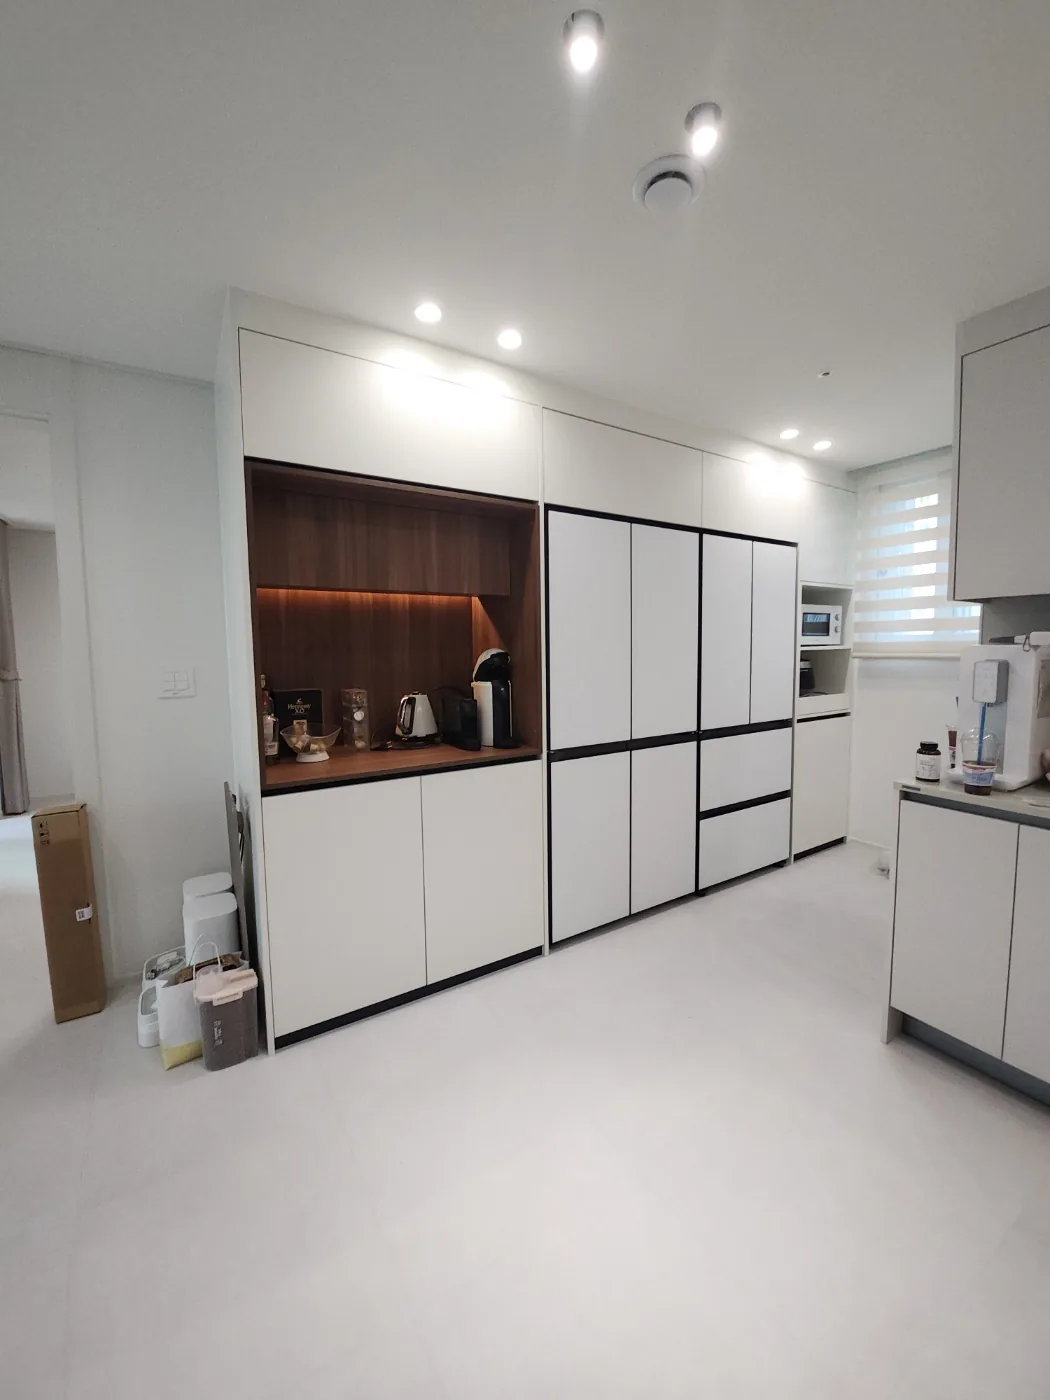
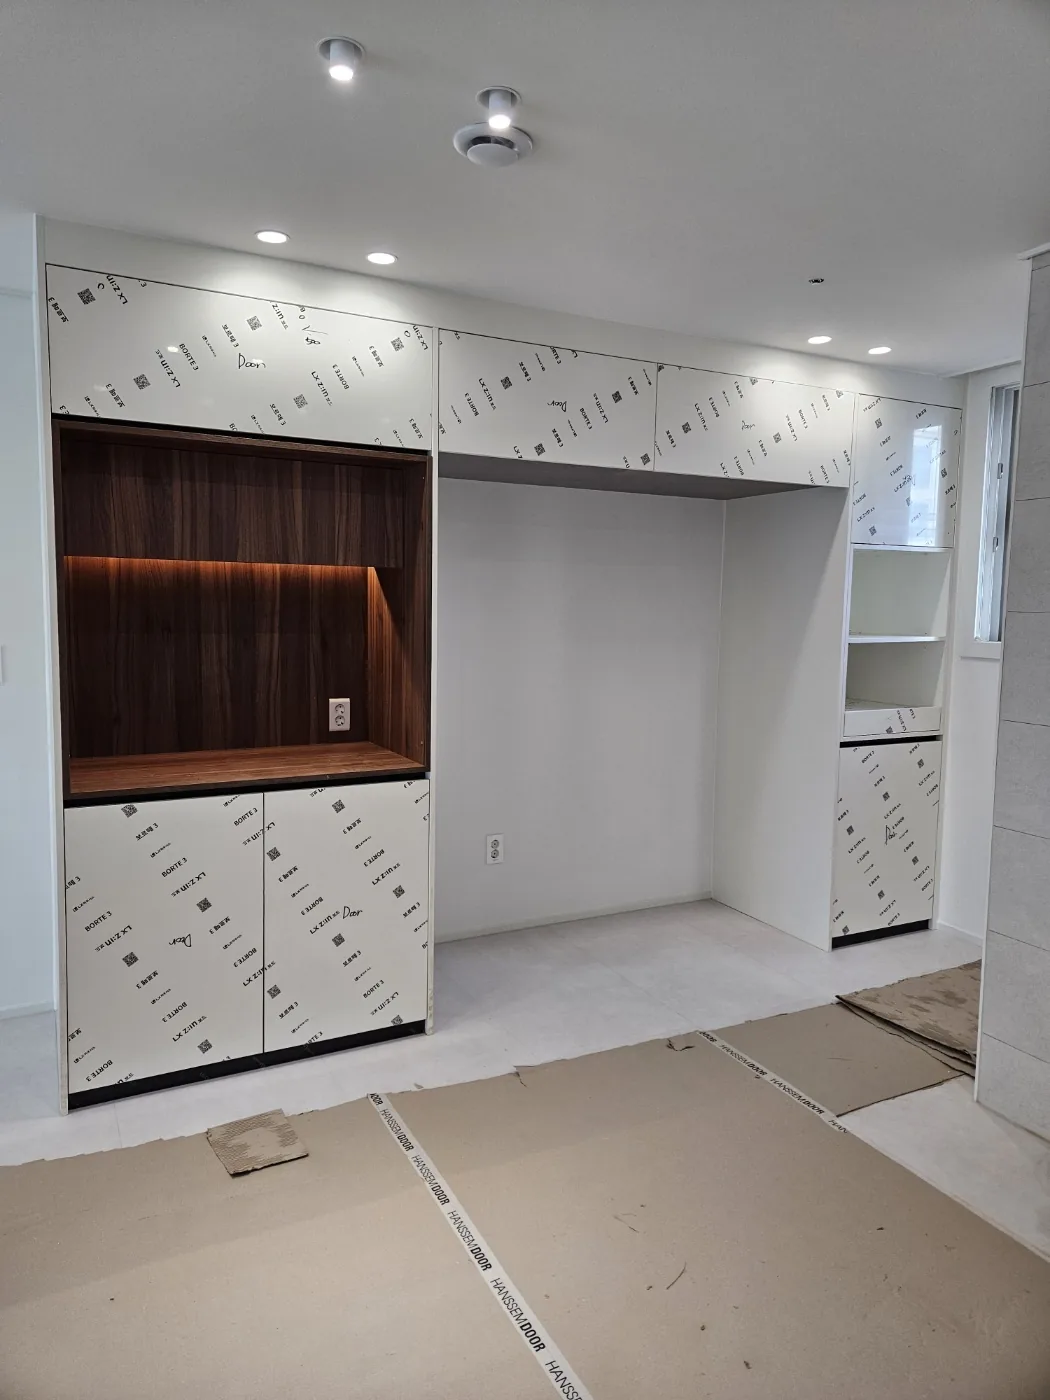
uv코팅 갤러리 추가 + 올인원 완성사진 처리 + 서비스 카드 썸네일 사례사진화
- 대리석케어 UV 갤러리에 작업사진 12장 추가(uv_13~24, 총 24장)
- '올인원 냉장고장·홈바장·키큰장' 케이스: 두 사진 모두 시공 후 → 전/후 비교 해제, 완성 사진 2장으로(덕영 확인)
- 서비스.html 주방·장 제작/가구 리폼 카드 썸네일을 사례 작업사진으로 교체(이모지 자리표시 제거), 각 카드가 해당 유형 콘텐츠로 연결

diff --git a/서비스.html b/서비스.html
@@ -293,7 +293,7 @@ footer{border-top:1px solid var(--hairline);padding:var(--sp-xxl) 0 0}
 
     <div class="item-grid">
       <div class="item-card">
-        <div class="item-photo ph4"><a class="thumb-link" href="시공사례.html"><img src="img/블로그/svc_island.webp" alt="주방 전체 시공 사진 — 수원 베스트타운 주방 올철거 리모델링 하츠 인덕션·아일랜드" loading="lazy"></a><span class="badge">제작·시공</span></div>
+        <div class="item-photo"><a class="thumb-link" href="사례상세.html?id=jubang-all"><img src="img/사례/jubang-all/thumb.webp" alt="주방 전체 시공" loading="lazy"></a><span class="badge">제작·시공</span></div>
         <div class="item-body">
           <h3>싱크대 제작·교체 (주방 전체)</h3>
           <p>철거부터 상하부장·상판·후드·설치까지, 주방 전체를 새로 만듭니다.</p>
@@ -303,7 +303,7 @@ footer{border-top:1px solid var(--hairline);padding:var(--sp-xxl) 0 0}
         </div>
       </div>
       <div class="item-card">
-        <div class="item-photo"><a class="thumb-link" href="장제작상세.html?type=fridge"><img src="img/블로그/svc_fridge.webp" alt="냉장고장 시공 사진 — 부천 옥길동 제이드카운티 냉장고장 제작" loading="lazy"></a><span class="badge">인기</span></div>
+        <div class="item-photo"><a class="thumb-link" href="장제작상세.html?type=fridge"><img src="img/사례/naeng-reform/thumb.webp" alt="냉장고장 제작·리폼" loading="lazy"></a><span class="badge">인기</span></div>
         <div class="item-body">
           <h3>냉장고장 <span style="font-size:.75em;color:var(--muted-soft);font-weight:600">신규 제작</span></h3>
           <p>냉장고·김치냉장고 자리를 딱 맞게 감싸는 맞춤장. 상부 수납장 포함 제작.</p>
@@ -313,7 +313,7 @@ footer{border-top:1px solid var(--hairline);padding:var(--sp-xxl) 0 0}
         </div>
       </div>
       <div class="item-card">
-        <div class="item-photo ph2"><a class="thumb-link" href="장제작상세.html?type=builtin"><img src="img/블로그/svc_utility.webp" alt="붙박이장 시공 사진 — 수원 베란다 창고장, 성중흥S클래스 창고장" loading="lazy"></a></div>
+        <div class="item-photo"><a class="thumb-link" href="장제작상세.html?type=builtin"><img src="img/사례/gongteul-pretty/thumb.webp" alt="붙박이장·공틀장" loading="lazy"></a></div>
         <div class="item-body">
           <h3>붙박이장</h3>
           <p>현관장·베란다장·방 붙박이장까지, 벽면에 딱 맞게 제작·설치.</p>
@@ -323,7 +323,7 @@ footer{border-top:1px solid var(--hairline);padding:var(--sp-xxl) 0 0}
         </div>
       </div>
       <div class="item-card">
-        <div class="item-photo ph3" style="display:flex;align-items:center;justify-content:center;font-size:46px"><a class="thumb-link" href="장제작상세.html?type=entrance" style="text-decoration:none">👟</a></div>
+        <div class="item-photo"><a class="thumb-link" href="장제작상세.html?type=entrance"><img src="img/사례/entrance-mirror/thumb.webp" alt="현관장" loading="lazy"></a></div>
         <div class="item-body">
           <h3>현관장</h3>
           <p>신발·우산·택배까지 현관을 깔끔하게. 벤치·거울·키홀더 결합도 가능.</p>
@@ -333,7 +333,7 @@ footer{border-top:1px solid var(--hairline);padding:var(--sp-xxl) 0 0}
         </div>
       </div>
       <div class="item-card">
-        <div class="item-photo ph4" style="display:flex;align-items:center;justify-content:center;font-size:46px"><a class="thumb-link" href="장제작상세.html?type=living" style="text-decoration:none">📺</a></div>
+        <div class="item-photo"><a class="thumb-link" href="장제작상세.html?type=living"><img src="img/사례/artwall/thumb.webp" alt="거실장·아트월" loading="lazy"></a></div>
         <div class="item-body">
           <h3>거실장</h3>
           <p>TV·거실 벽면을 수납과 디자인으로 통합. 아트월·오픈선반·도어 혼합 구성.</p>
@@ -343,7 +343,7 @@ footer{border-top:1px solid var(--hairline);padding:var(--sp-xxl) 0 0}
         </div>
       </div>
       <div class="item-card">
-        <div class="item-photo ph2" style="display:flex;align-items:center;justify-content:center;font-size:46px"><a class="thumb-link" href="장제작상세.html?type=homebar" style="text-decoration:none">🍸</a></div>
+        <div class="item-photo"><a class="thumb-link" href="장제작상세.html?type=homebar"><img src="img/사례/homebar-cafe/thumb.webp" alt="홈바장·카페장" loading="lazy"></a></div>
         <div class="item-body">
           <h3>홈바장</h3>
           <p>주방·거실 사이 홈바·수납 카운터. 상판·수납·콘센트까지 맞춤 제작.</p>
@@ -353,7 +353,7 @@ footer{border-top:1px solid var(--hairline);padding:var(--sp-xxl) 0 0}
         </div>
       </div>
       <div class="item-card">
-        <div class="item-photo ph3" style="display:flex;align-items:center;justify-content:center;font-size:46px"><a class="thumb-link" href="장제작상세.html?type=tall" style="text-decoration:none">🗄</a></div>
+        <div class="item-photo"><a class="thumb-link" href="장제작상세.html?type=tall"><img src="img/사례/tall-naeng-oven-study/thumb.webp" alt="키큰장" loading="lazy"></a></div>
         <div class="item-body">
           <h3>키큰장</h3>
           <p>천장까지 꽉 채우는 톨장. 오븐·전자레인지 매립 구성 가능.</p>
@@ -363,7 +363,7 @@ footer{border-top:1px solid var(--hairline);padding:var(--sp-xxl) 0 0}
         </div>
       </div>
       <div class="item-card">
-        <div class="item-photo"><a class="thumb-link" href="장제작상세.html?type=system"><img src="img/블로그/svc_island.webp" alt="시스템장 시공 사진" loading="lazy"></a></div>
+        <div class="item-photo"><a class="thumb-link" href="장제작상세.html?type=system"><img src="img/사례/mang-homebar-robot/thumb.webp" alt="맞춤가구·시스템장" loading="lazy"></a></div>
         <div class="item-body">
           <h3>맞춤가구·시스템장</h3>
           <p>주방·거실 벽면을 통일감 있게 구성하는 시스템 수납장과 자투리 수납장.</p>
@@ -433,7 +433,7 @@ footer{border-top:1px solid var(--hairline);padding:var(--sp-xxl) 0 0}
 
     <div class="item-grid">
       <div class="item-card">
-        <div class="item-photo ph2"><a class="thumb-link" href="시공사례.html"><img src="img/블로그/svc_door.webp" alt="상하부장 리폼 시공 사진 — 도어·필름 교체" loading="lazy"></a></div>
+        <div class="item-photo"><a class="thumb-link" href="사례상세.html?id=kitchen-door-reform"><img src="img/사례/kitchen-door-reform/thumb.webp" alt="상하부장·도어 리폼" loading="lazy"></a></div>
         <div class="item-body">
           <h3>상하부장 리폼</h3>
           <p>장은 그대로, 필름·도어만 새것으로. 미터당 단가로 계산돼요.</p>
@@ -443,7 +443,7 @@ footer{border-top:1px solid var(--hairline);padding:var(--sp-xxl) 0 0}
         </div>
       </div>
       <div class="item-card">
-        <div class="item-photo ph3" style="display:flex;align-items:center;justify-content:center;font-size:46px"><a class="thumb-link" href="시공사례.html" style="text-decoration:none">🚪</a></div>
+        <div class="item-photo"><a class="thumb-link" href="사례상세.html?id=kitchen-door-reform"><img src="img/사례/kitchen-door-reform/thumb.webp" alt="도어 교체" loading="lazy"></a></div>
         <div class="item-body">
           <h3>도어 교체</h3>
           <p>문짝만 새것으로. 색상·소재 샘플 보고 선택.</p>
@@ -463,7 +463,7 @@ footer{border-top:1px solid var(--hairline);padding:var(--sp-xxl) 0 0}
         </div>
       </div>
       <div class="item-card">
-        <a class="item-photo ph2" href="냉장고장리폼.html" style="display:flex;align-items:center;justify-content:center;font-size:46px;text-decoration:none">🧊</a>
+        <a class="item-photo" href="냉장고장리폼.html"><img src="img/사례/naeng-reform/thumb.webp" alt="냉장고장 리폼" loading="lazy"></a>
         <div class="item-body">
           <h3>냉장고장 리폼</h3>
           <p>기존 냉장고장 구조를 살려 문짝·필름·마감만 새것으로. 신규 제작보다 합리적인 비용.</p>
@@ -473,7 +473,7 @@ footer{border-top:1px solid var(--hairline);padding:var(--sp-xxl) 0 0}
         </div>
       </div>
       <div class="item-card">
-        <a class="item-photo ph3" href="식기세척기장리폼.html" style="display:flex;align-items:center;justify-content:center;font-size:46px;text-decoration:none">🍽</a>
+        <a class="item-photo" href="식기세척기장리폼.html"><img src="img/사례/dishwasher-reform/thumb.webp" alt="식기세척기장 리폼" loading="lazy"></a>
         <div class="item-body">
           <h3>식기세척기장 리폼</h3>
           <p>기존 하부장을 살려 식기세척기 자리에 맞춰 수정·제작. 급배수·전기 정리까지.</p>
@@ -483,7 +483,7 @@ footer{border-top:1px solid var(--hairline);padding:var(--sp-xxl) 0 0}
         </div>
       </div>
       <div class="item-card">
-        <a class="item-photo ph4" href="로봇청소기장리폼.html" style="display:flex;align-items:center;justify-content:center;font-size:46px;text-decoration:none">🤖</a>
+        <a class="item-photo" href="로봇청소기장리폼.html"><img src="img/사례/homebar-cafe/thumb.webp" alt="로봇청소기장 리폼" loading="lazy"></a>
         <div class="item-body">
           <h3>로봇청소기장 리폼</h3>
           <p>기존 하부장·틈새를 활용해 로봇청소기 자리와 충전 동선을 깔끔하게.</p>

diff --git a/데이터/stories.js b/데이터/stories.js
@@ -51,20 +51,16 @@ window.GG_STORIES = [
    "홈바장",
    "올인원"
   ],
-  "lead": "냉장고, 전자레인지, 커피 용품이 주방 여기저기 흩어져 있던 집. 한쪽 벽을 통째로 맞춤장으로 묶어 ‘올인원’으로 정리했습니다.",
+  "lead": "냉장고, 전자레인지, 커피 용품을 한쪽 벽에 통째로 맞춤장으로 묶어 ‘올인원’으로 정리했습니다.",
   "body": [
    "냉장고 자리는 치수에 맞춰 감싸고, 옆으로 <b>오븐·전자레인지를 매립</b>할 키큰장을, 아래쪽엔 <b>홈바장</b>을 한 줄로 이었습니다.",
    "서로 다른 역할의 장을 같은 도어·같은 라인으로 맞추면, 가전이 많아도 주방이 복잡해 보이지 않습니다. 쓰는 사람 동선에 맞춘 수납 높이가 핵심이에요."
   ],
-  "ba": {
-   "before": [
-    "img/사례/all-in-one/01.webp"
-   ],
-   "after": [
-    "img/사례/all-in-one/02.webp"
-   ]
-  },
-  "gallery": []
+  "ba": null,
+  "gallery": [
+   "img/사례/all-in-one/01.webp",
+   "img/사례/all-in-one/02.webp"
+  ]
  },
  {
   "id": "naeng-homebar",

diff --git a/대리석케어.html b/대리석케어.html
@@ -396,7 +396,7 @@ footer{border-top:1px solid var(--hairline);padding:var(--sp-xxl) 0 0}
       ],
       steps:['표면 상태 점검','세정 · 연마 전처리','UV 코팅제 도포','UV 경화 · 마감 점검'],
       applies:['대리석(천연·엔지니어드) 상판','주방 아일랜드 상판','세면대 · 욕실 대리석','기타 석재 상판 — 현장 확인'],
-      gallery: Array.from({length:12},function(_,i){return 'img/서비스/uv_'+(i+1)+'.webp';}),
+      gallery: Array.from({length:24},function(_,i){return 'img/서비스/uv_'+(i+1)+'.webp';}),
       note:'코팅 효과와 유지 기간은 상판 종류·사용 환경·기존 손상 정도에 따라 달라집니다. 적용 가능 여부와 예상 결과는 상판 사진과 상태를 확인한 뒤 솔직하게 안내드립니다.'
     },
     crack: {
